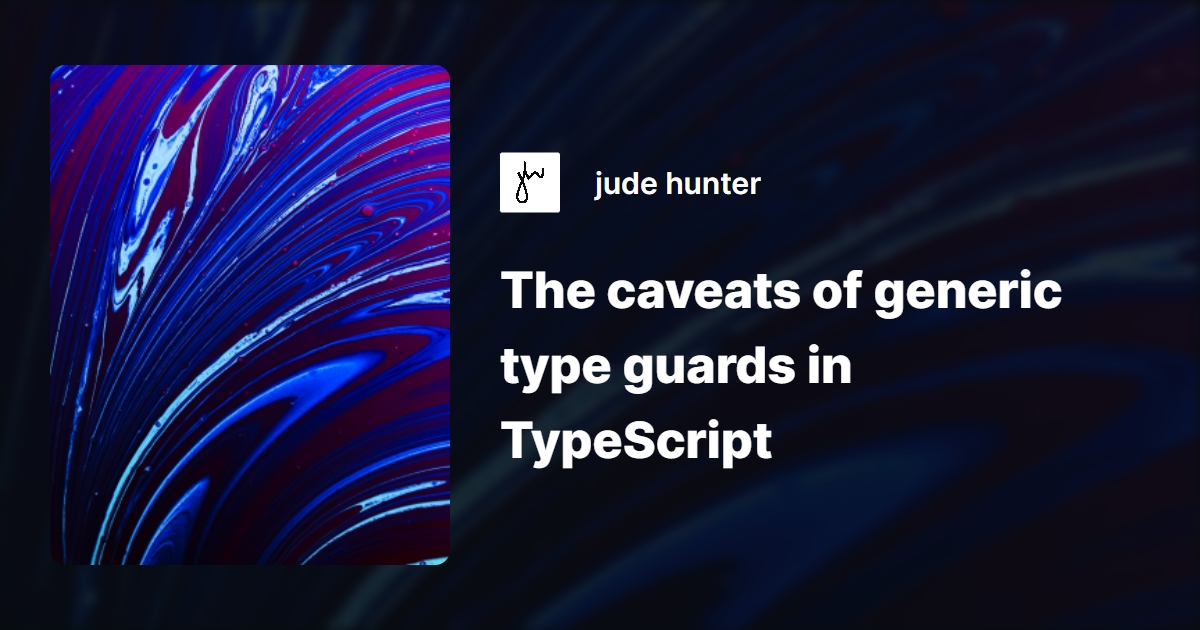
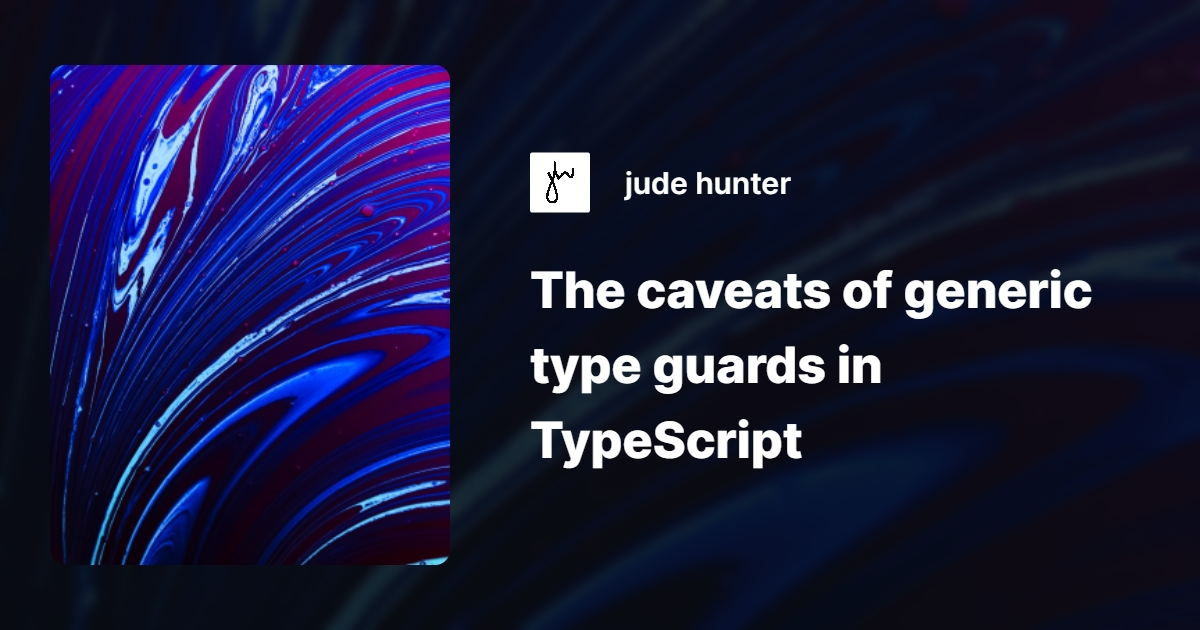
cms: Thumbnail changes

diff --git a/scripts/blogOgImage.html b/scripts/blogOgImage.html
@@ -13,8 +13,12 @@
   <body style="margin: 0; padding: 0; font-family: 'Inter var experimental'">
     <div style="width: 1200px; height: 630px; background-color: #070c10; position: relative;">
       <div style="width: 400px; height: 500px; position: absolute; left: 50px; top: 50%; transform: translateY(-50%); z-index: 1; border-radius: 15px; background-image: url('../../public/media/pierre-lemos-CJ0YhhGi_Xg-unsplash.jpg'); background-position: center; background-size: cover;" id="image1"></div>
-      <div style="width: 1200px; height: 630px; position: absolute; left: 0px; top: 0; z-index: 0; border-radius: 15px; background-image: url('../../public/media/pierre-lemos-CJ0YhhGi_Xg-unsplash.jpg'); background-position: center; background-size: cover; opacity: 0.15; filter: blur(5px);" id="image2"></div>
-      <div style="padding-right: 80px; line-height: 1.5; font-weight: 800; color: white; font-size: 50px; text-align: left; position: absolute; left: 500px; top: 50%; transform: translateY(-50%);">
+      <div style="width: 1200px; height: 630px; position: absolute; left: 0px; top: 0; z-index: 0; background-image: url('../../public/media/pierre-lemos-CJ0YhhGi_Xg-unsplash.jpg'); background-position: center; background-size: cover; opacity: 0.15;" id="image2">
+        <div style="width: 100%; height: 100%; backdrop-filter: blur(5px);">
+          
+        </div>
+      </div>
+      <div style="padding-right: 80px; line-height: 1.5; font-weight: 800; color: white; font-size: 50px; text-align: left; position: absolute; left: 530px; top: 50%; transform: translateY(-50%);">
         <div style="display: flex; margin-bottom: 40px; align-items: center;">
           <svg xmlns="http://www.w3.org/2000/svg" style="width: 60px;" fill="none" viewBox="0 0 40 40">
             <rect width="40" height="40" fill="#fff" rx="1.579"></rect>
